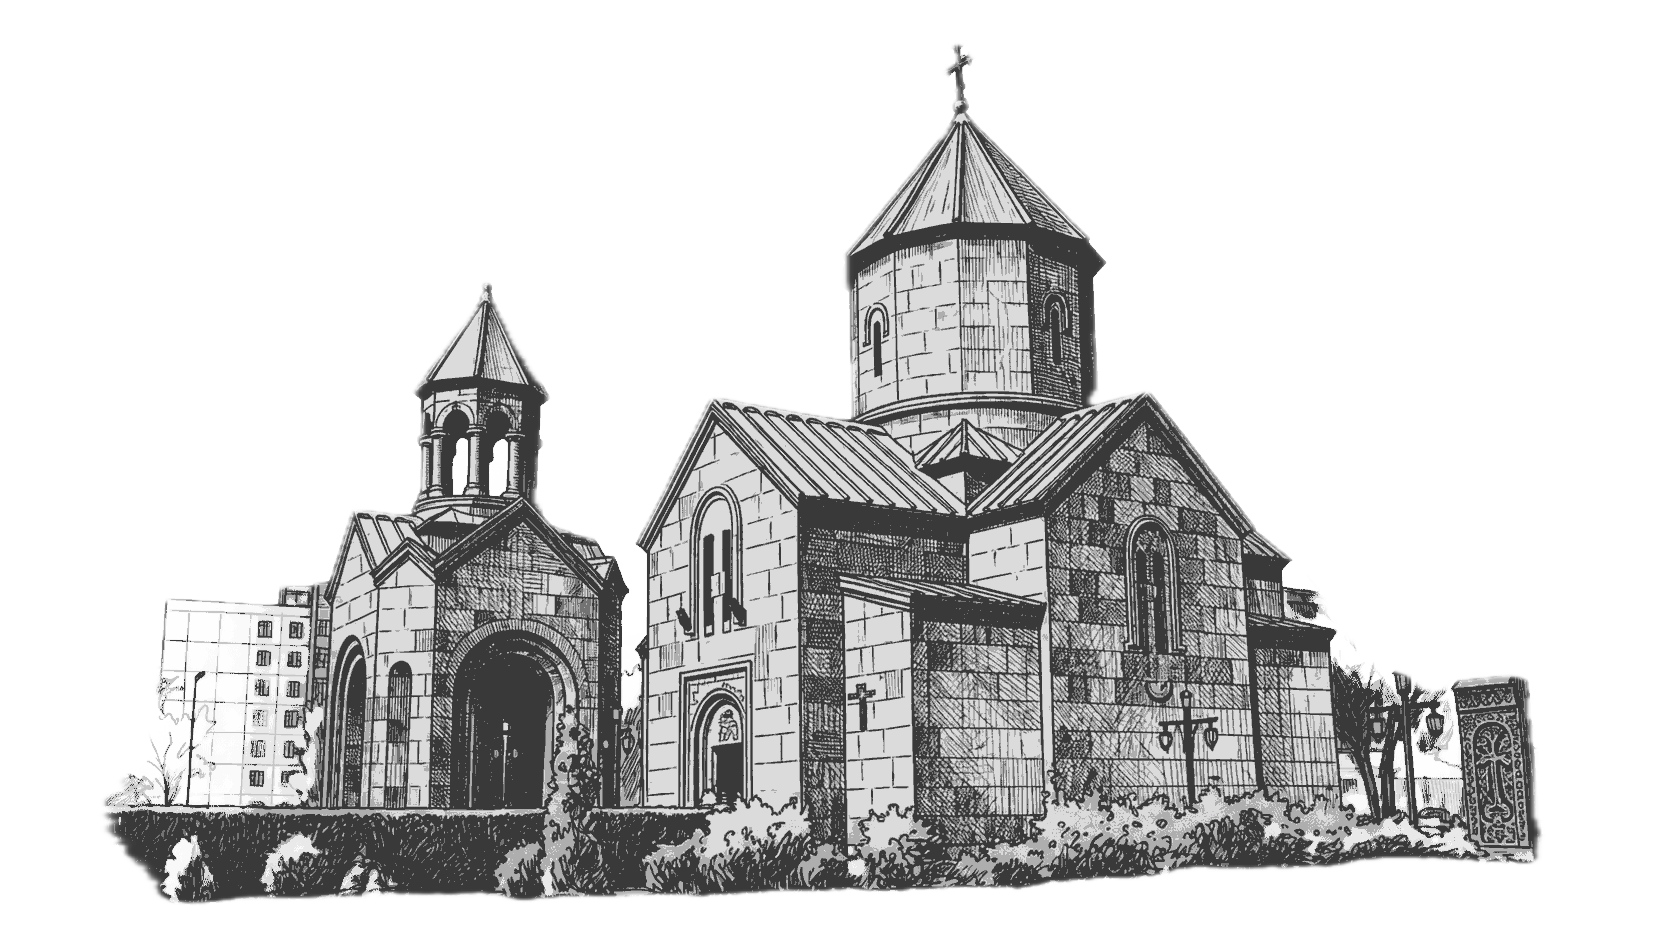
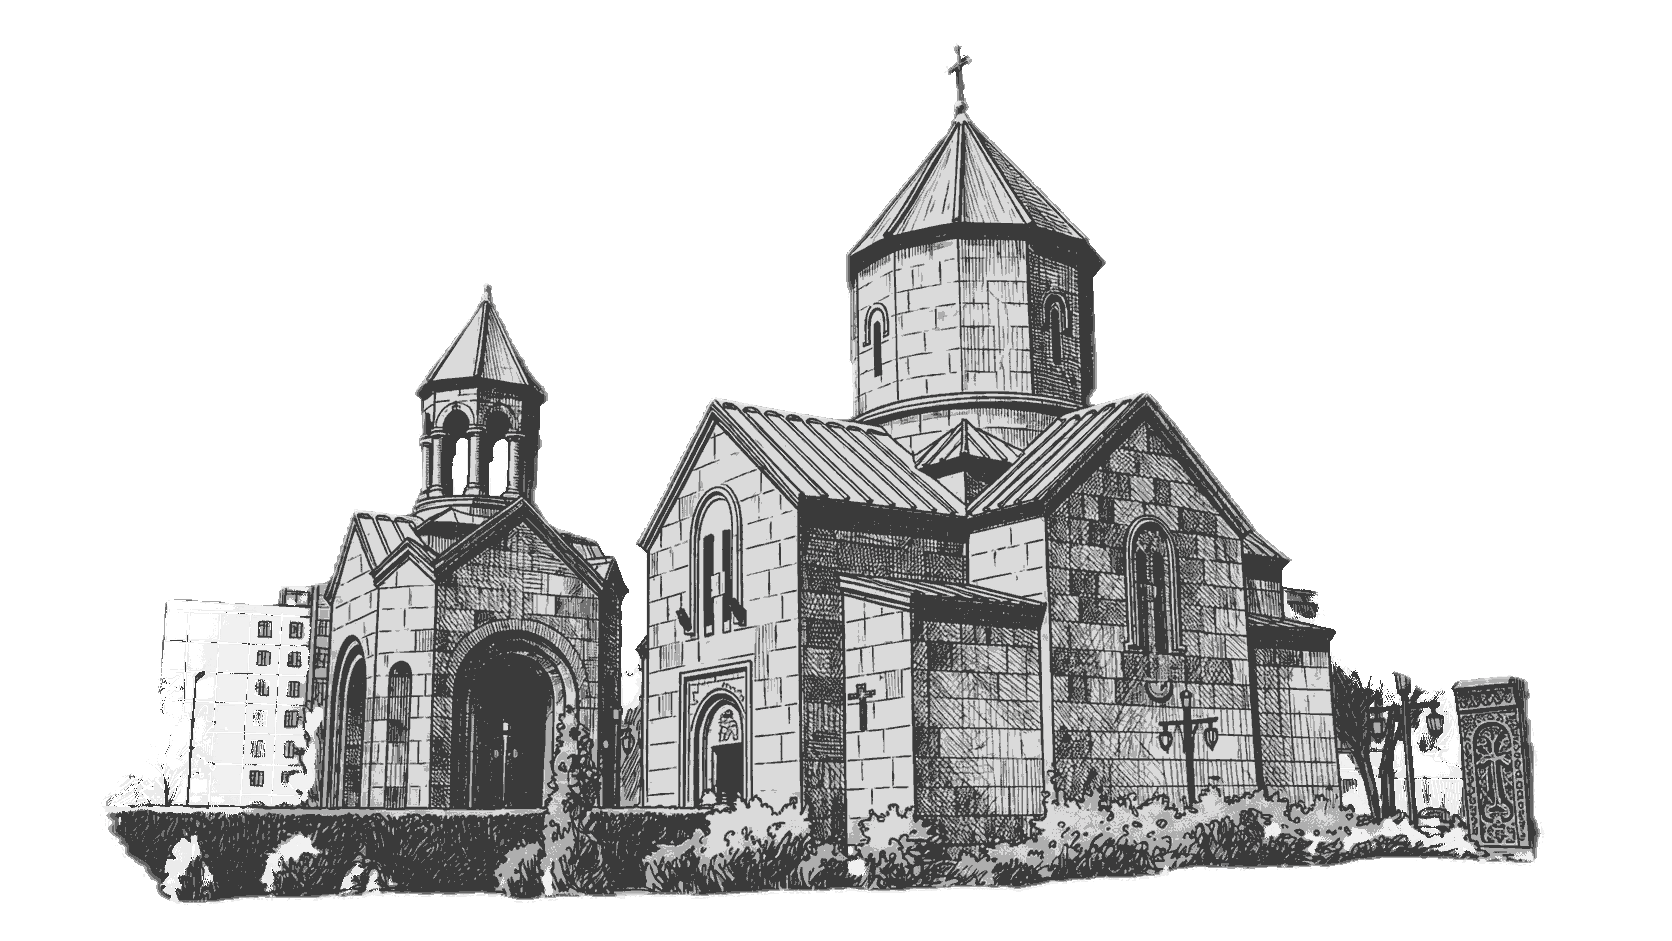
Replace civil ceremony illustration and align its sizing with church
Recompress church illustration (was accidentally saved unquantized).

diff --git a/src/FigmaInvite.jsx b/src/FigmaInvite.jsx
@@ -564,7 +564,7 @@ export default function FigmaInvite() {
                           <div
                             className={[
                               styles.scheduleItemImage,
-                              [0, 1, 3, 4].includes(i)
+                              [0, 1, 4].includes(i)
                                 ? styles.scheduleItemImagePlain
                                 : "",
                               i === 1 ? styles.scheduleItemImageBride : "",

diff --git a/src/FigmaInvite.module.css b/src/FigmaInvite.module.css
@@ -2187,7 +2187,8 @@
   border: none;
 }
 
-.scheduleItemImageChurch {
+.scheduleItemImageChurch,
+.scheduleItemImageCert {
   border-radius: 0;
   box-shadow: none;
   border: none;
@@ -2210,7 +2211,7 @@
 }
 
 .scheduleItemImageCert img {
-  transform: scale(0.75);
+  transform: scale(0.85);
 }
 
 .scheduleItemImageDance img {
